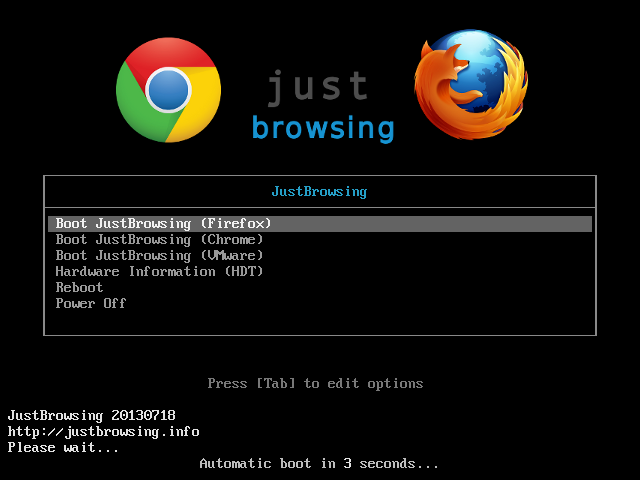
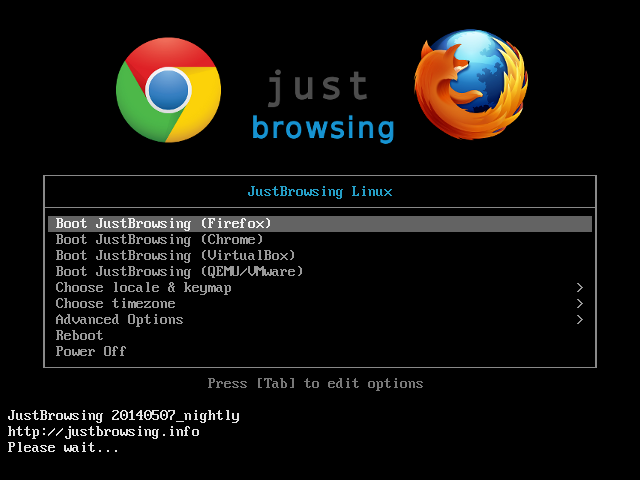
Updated syslinux screenshot and added warnings

diff --git a/start/index.html b/start/index.html
@@ -451,7 +451,8 @@
         <td><b><br>Browse for justbrowsing_YYYYMMDD.iso</b>
         <br>Select USB Device
         <br><b>Press Write</b></td>
-        <td><img src="win32diskimager.png" /></td>
+        <td><img src="win32diskimager.png" />
+        <br><h3><u>WARNING</u>: This will DELETE ALL CONTENTS of selected drive</h3></td>
       </tr>
       <tr><td><img src="num3.png" /></td>
         <td>Reboot/Restart the computer</td>
@@ -495,6 +496,16 @@
         <td><a href="splash.png"><img class="resize" src="splash.resized.png" /></a></td>
       </tr>
       </table>
+
+      <h2>Additional notes</h2>
+      <table>
+      <tr><td><img src="num8.png" /></td>
+        <td><ul>
+        <li>This method utilizes a <a href="http://www.syslinux.org/wiki/index.php/Doc/isolinux#HYBRID_CD-ROM.2FHARD_DISK_MODE">hybridized ISO</a></li>
+        <li>To <a href="https://wiki.archlinux.org/index.php/USB_Flash_Installation_Media#How_to_restore_the_USB_drive">restore the drive</a> to full capacity, the first 512 bytes must be zeroed out</li>
+        </ul></td>
+      </tr>
+      </table>
     </div>
 
     <a name="usb_linux"></a>
@@ -518,8 +529,7 @@
           <tr><td>/dev/sdd</td><td>Toshiba</td><td>DT888</td><td>298.09 GB</td><td>no</td></tr>
           <tr style="background:#000; color:#FFF;"><td>/dev/sde</td><td>Kingston</td><td>USB FlashDisk</td><td>3.71 GB</td><td>yes</td></tr>
         </table></div><br>
-        <br>Select a USB drive at least 1 GB in capacity.
-        <br><u>WARNING</u>: This will DELETE ALL CONTENTS of selected drive</td>
+        <br>Select a USB drive at least 1 GB in capacity.</td>
       </tr></table>
       <table><tr><td><img src="num2.png" /></td>
         <td><br>Open UNetbootin
@@ -527,7 +537,8 @@
         <br>Browse for justbrowsing_YYYYMMDD.iso
         <br><b>Select Drive</b>
         <br>Press OK</td>
-        <td><img src="unetbootin.png" /></td>
+        <td><img src="unetbootin.png" />
+        <br><h3><u>WARNING</u>: This will DELETE ALL CONTENTS of selected drive</h3></td>
       </tr>
       <tr><td><img src="num3.png" /></td>
         <td>Reboot/Restart the computer</td>
@@ -569,6 +580,16 @@
       <tr><td><img src="num7.png" /></td>
         <td>Splash screen</td>
         <td><a href="splash.png"><img class="resize" src="splash.resized.png" /></a></td>
+      </tr>
+      </table>
+
+      <h2>Additional notes</h2>
+      <table>
+      <tr><td><img src="num8.png" /></td>
+        <td><ul>
+        <li>This method utilizes a <a href="http://www.syslinux.org/wiki/index.php/Doc/isolinux#HYBRID_CD-ROM.2FHARD_DISK_MODE">hybridized ISO</a></li>
+        <li>To <a href="https://wiki.archlinux.org/index.php/USB_Flash_Installation_Media#How_to_restore_the_USB_drive">restore the drive</a> to full capacity, the first 512 bytes must be zeroed out</li>
+        </ul></td>
       </tr>
       </table>
     </div>
@@ -646,6 +667,16 @@
       <tr><td><img src="num7.png" /></td>
         <td>Splash screen</td>
         <td><a href="splash.png"><img class="resize" src="splash.resized.png" /></a></td>
+      </tr>
+      </table>
+
+      <h2>Additional notes</h2>
+      <table>
+      <tr><td><img src="num8.png" /></td>
+        <td><ul>
+        <li>This method utilizes a <a href="http://www.syslinux.org/wiki/index.php/Doc/isolinux#HYBRID_CD-ROM.2FHARD_DISK_MODE">hybridized ISO</a></li>
+        <li>To <a href="https://wiki.archlinux.org/index.php/USB_Flash_Installation_Media#How_to_restore_the_USB_drive">restore the drive</a> to full capacity, the first 512 bytes must be zeroed out</li>
+        </ul></td>
       </tr>
       </table>
     </div>

diff --git a/new/index.html b/new/index.html
@@ -145,7 +145,7 @@ function googleTranslateElementInit() {
 <li>Chrome: removed Apps bookmark</li>
 <li>Chrome: set home to chrome://apps</li>
 <li>Fixed: touchpad settings (again)</li>
-<li>Added install.preset for jb-remaster</li>
+<li>Added install.preset for jb-remaster</li></ul>
 
  Status:<ul>
 <li>Updated browsers to Firefox 29.0 (stable) and Google Chrome 34.0.1847.132 (stable)</li>
